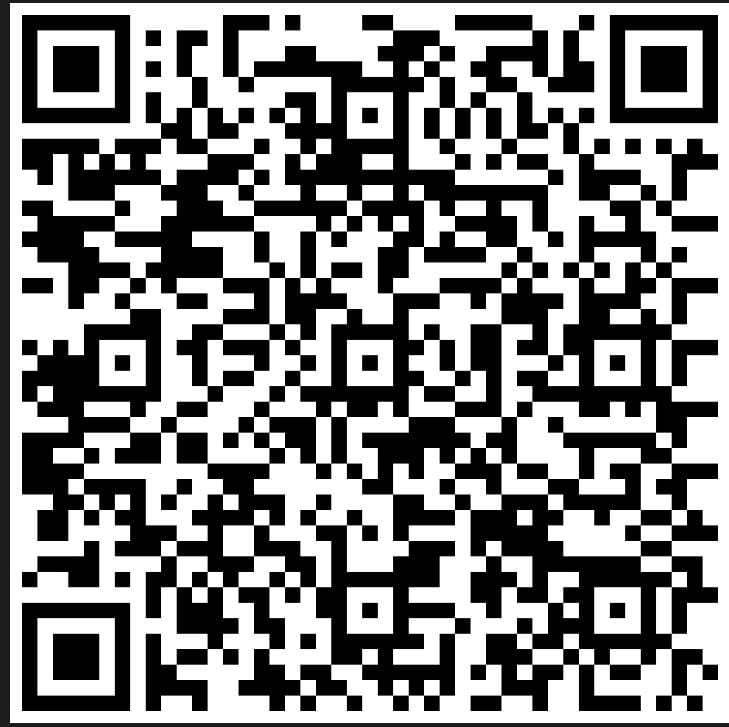
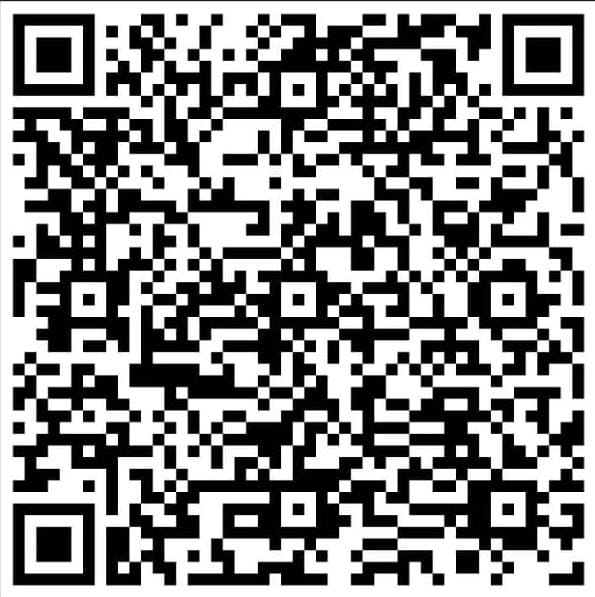
ajustando valor pix para 5 reais

diff --git a/public/index.html b/public/index.html
@@ -29,7 +29,7 @@ header,.hero,.section,.register-box{position:relative;z-index:1}
 <section class="section" id="como"><h2 class="section-title">Como participar</h2><p class="section-subtitle">Siga os passos abaixo para entrar na Cash Cup.</p><div class="steps"><div class="step"><div class="step-number">1</div><h3>Ler as informações</h3><p>Entenda o formato, as vagas e como funciona a aprovação.</p></div><div class="step"><div class="step-number">2</div><h3>Fazer o pagamento</h3><p>Pague a inscrição via PIX com QR Code ou chave copia e cola.</p></div><div class="step"><div class="step-number">3</div><h3>Enviar comprovante</h3><p>Envie o comprovante no WhatsApp e aguarde a aprovação manual.</p></div></div></section>
 <section class="section" id="inscricao"><h2 class="section-title">Inscrição</h2><p class="section-subtitle">Preencha os dados da dupla e avance para a etapa de pagamento.</p><div class="register-box"><div class="register-top"><div class="badge">Vagas restantes: <span id="remainingSlots">...</span>/8</div><div class="badge">Formato: DUO • 8 equipes</div></div><div class="warning-box">O nome da equipe precisa ser único. A vaga só conta de verdade quando o admin aprovar o pagamento.</div><div class="server-message" id="serverMessage"></div><div class="form-steps"><div class="form-step active" id="stepIndicator1">1. Dados da equipe</div><div class="form-step" id="stepIndicator2">2. Pagamento</div><div class="form-step" id="stepIndicator3">3. Confirmação</div></div>
 <div class="form-panel active" id="panel1"><div class="form-grid"><div class="field full"><label for="teamName">Nome da equipe</label><input type="text" id="teamName" placeholder="Ex: Duo Alpha"><div class="helper">Escolha um nome único para a dupla.</div><div class="error" id="teamNameError">Esse nome de equipe já está em uso.</div></div><div class="field"><label for="discordName">Nome no Discord</label><input type="text" id="discordName" placeholder="Ex: usuario#0001"><div class="error" id="discordError">Preencha seu nome do Discord.</div></div><div class="field"><label for="phoneNumber">Número do celular</label><input type="tel" id="phoneNumber" placeholder="Ex: (21) 99999-9999"><div class="error" id="phoneError">Preencha um número válido.</div></div><div class="field"><label for="playerOne">Nome da pessoa 1</label><input type="text" id="playerOne" placeholder="Nick do Free Fire"><div class="error" id="playerOneError">Preencha o nick da pessoa 1.</div></div><div class="field"><label for="playerTwo">Nome da pessoa 2</label><input type="text" id="playerTwo" placeholder="Nick do Free Fire"><div class="error" id="playerTwoError">Preencha o nick da pessoa 2.</div></div></div><div class="actions"><div></div><button class="btn btn-primary" onclick="goToPayment()">Continuar para pagamento</button></div></div>
-<div class="form-panel" id="panel2"><div class="payment-box"><h3>Pagamento da inscrição</h3><p class="helper">Valor da inscrição: <strong>R$ 5,00</strong>. Faça o PIX e envie o comprovante no WhatsApp.</p><div class="payment-grid"><div class="payment-left"><div class="payment-status">📌 Aguardando seu comprovante</div><div class="qr-box"></div><div class="field"><label for="pixCode">PIX copia e cola</label><textarea class="pix-copy" id="pixCode" readonly>00020101021126580014br.gov.bcb.pix0136c7886717-e125-45e6-9de5-38940eef393b520400005303986540510.005802BR5914ISAIAS S FIRMO6004MAGE62070503***6304E103</textarea></div><div class="buttons" style="justify-content:flex-start;margin-top:14px"><button class="btn btn-blue" onclick="copyPixCode()">Copiar chave PIX</button><button class="btn btn-primary" onclick="sendWhatsAppProof()">Enviar comprovante no WhatsApp</button></div><div class="copy-feedback" id="copyFeedback">Chave PIX copiada com sucesso.</div><div class="small-note">WhatsApp configurado para: 21 98686-9430</div></div><div class="payment-right"><div class="payment-item"><strong>Equipe</strong><span id="summaryTeam"></span></div><div class="payment-item"><strong>Formato</strong><span>Cash Cup (DUO)</span></div><div class="payment-item"><strong>Valor da inscrição</strong><span>R$ 5,00</span></div><div class="payment-item"><strong>Status atual</strong><span>Pendente de aprovação do admin</span></div><div class="summary-list"><div class="summary-row"><span>Discord</span><strong id="summaryDiscord"></strong></div><div class="summary-row"><span>Celular</span><strong id="summaryPhone"></strong></div><div class="summary-row"><span>Pessoa 1</span><strong id="summaryP1"></strong></div><div class="summary-row"><span>Pessoa 2</span><strong id="summaryP2"></strong></div></div></div></div></div><div class="actions"><button class="btn btn-secondary" onclick="backToForm()">Voltar</button><button class="btn btn-primary" onclick="submitPending()">Concluir inscrição</button></div></div>
+<div class="form-panel" id="panel2"><div class="payment-box"><h3>Pagamento da inscrição</h3><p class="helper">Valor da inscrição: <strong>R$ 5,00</strong>. Faça o PIX e envie o comprovante no WhatsApp.</p><div class="payment-grid"><div class="payment-left"><div class="payment-status">📌 Aguardando seu comprovante</div><div class="qr-box"></div><div class="field"><label for="pixCode">PIX copia e cola</label><textarea class="pix-copy" id="pixCode" readonly>00020101021126930014br.gov.bcb.pix0136c7886717-e125-45e6-9de5-38940eef393b0231manda o comprovante no WhatsApp52040000530398654045.005802BR5914ISAIAS S FIRMO6004MAGE62070503***6304E8C3</textarea></div><div class="buttons" style="justify-content:flex-start;margin-top:14px"><button class="btn btn-blue" onclick="copyPixCode()">Copiar chave PIX</button><button class="btn btn-primary" onclick="sendWhatsAppProof()">Enviar comprovante no WhatsApp</button></div><div class="copy-feedback" id="copyFeedback">Chave PIX copiada com sucesso.</div><div class="small-note">WhatsApp configurado para: 21 98686-9430</div></div><div class="payment-right"><div class="payment-item"><strong>Equipe</strong><span id="summaryTeam"></span></div><div class="payment-item"><strong>Formato</strong><span>Cash Cup (DUO)</span></div><div class="payment-item"><strong>Valor da inscrição</strong><span>R$ 5,00</span></div><div class="payment-item"><strong>Status atual</strong><span>Pendente de aprovação do admin</span></div><div class="summary-list"><div class="summary-row"><span>Discord</span><strong id="summaryDiscord"></strong></div><div class="summary-row"><span>Celular</span><strong id="summaryPhone"></strong></div><div class="summary-row"><span>Pessoa 1</span><strong id="summaryP1"></strong></div><div class="summary-row"><span>Pessoa 2</span><strong id="summaryP2"></strong></div></div></div></div></div><div class="actions"><button class="btn btn-secondary" onclick="backToForm()">Voltar</button><button class="btn btn-primary" onclick="submitPending()">Concluir inscrição</button></div></div>
 <div class="form-panel" id="panel3"><div class="success-box"><h3>Inscrição enviada</h3><p>Sua dupla foi registrada como <strong>pendente</strong>.<br>Equipe: <strong id="finalTeamName"></strong></p><div class="small-note">Agora aguarde a aprovação manual do admin após a conferência do comprovante.</div><div class="actions" style="justify-content:center;margin-top:24px"><button class="btn btn-primary" onclick="resetFormFlow()">Fazer nova inscrição</button></div></div></div></div></section>
 <script>
 function el(id){return document.getElementById(id)}
